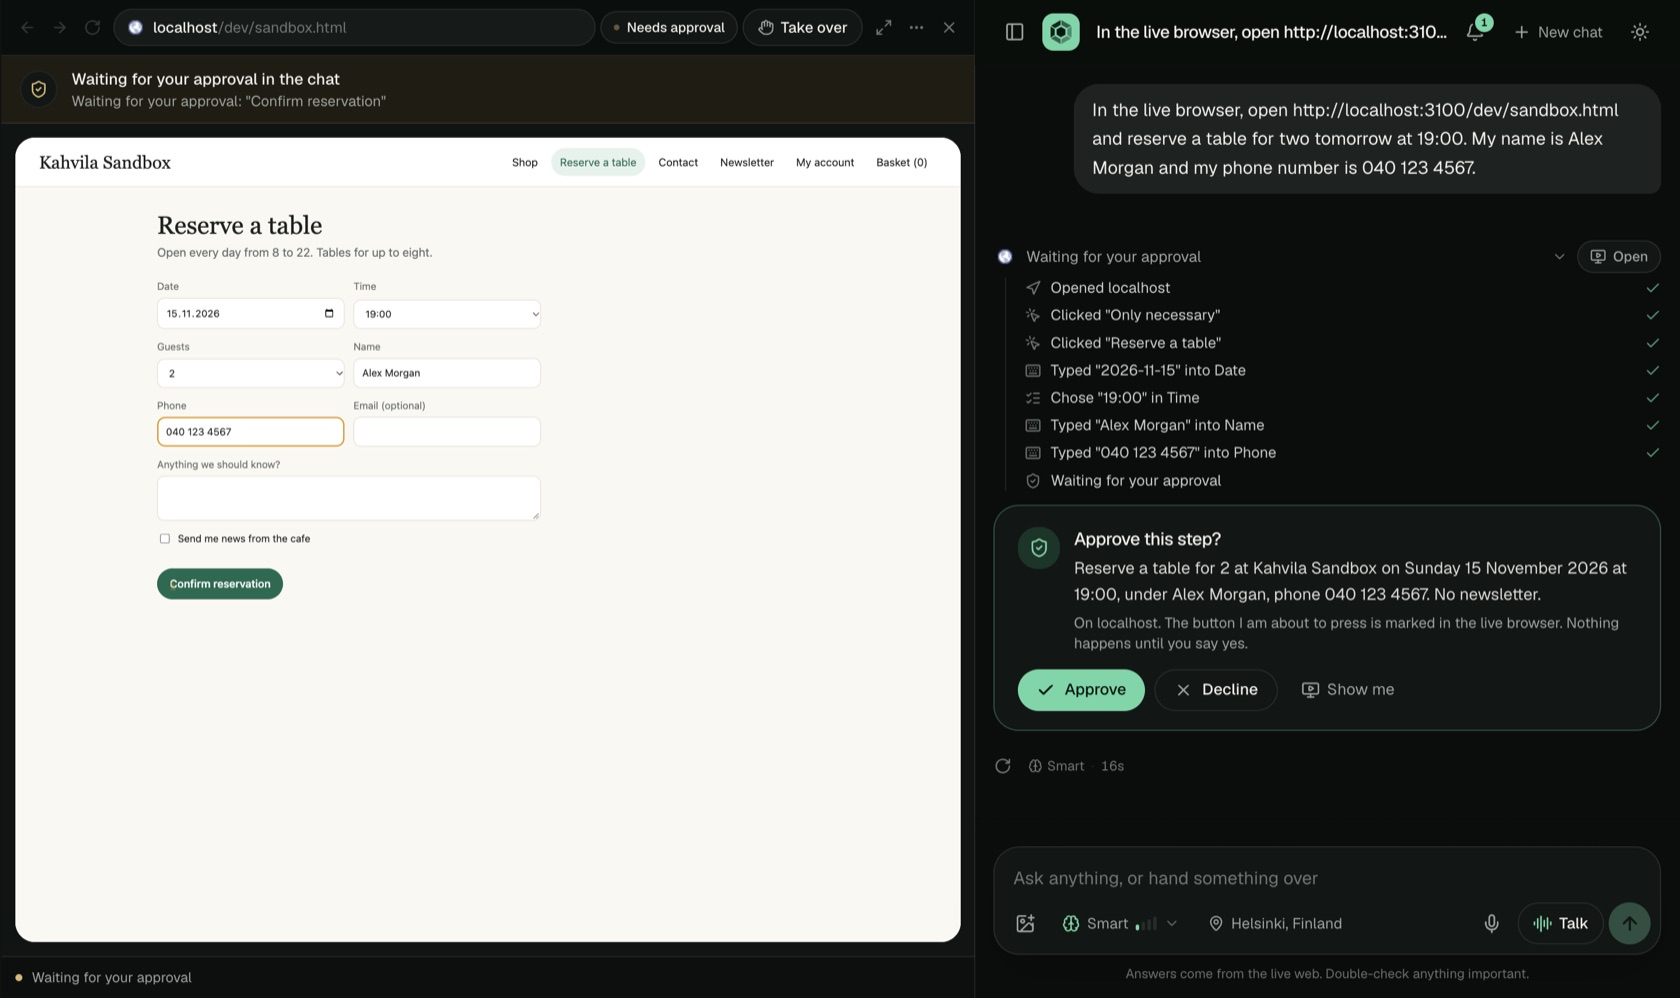
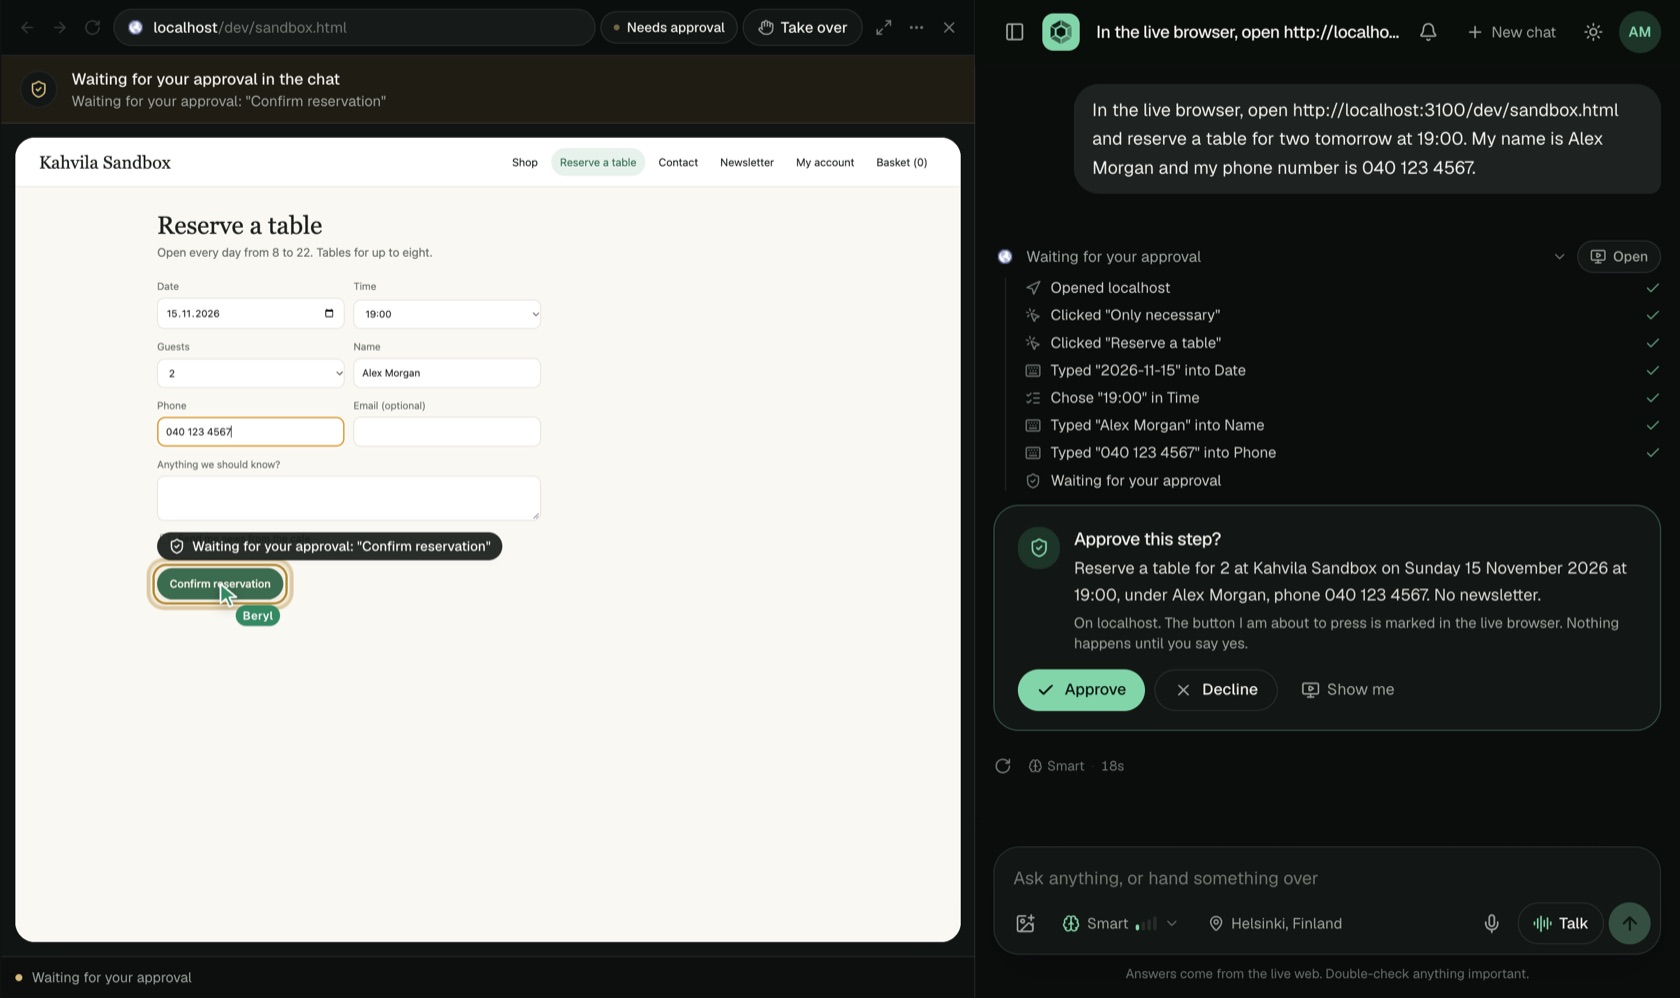
The engine works out the view's size itself when it has not been told
The approval ring could still be drawn off the button in runs where the
interface never sent the size of the browser view (it can miss the moment the
browser starts). With nothing set, the page's own size is the view's, so the
engine goes by that, lays the page out at desktop width and measures from
there. What a view had room for is forgotten when the browser closes.

The landing page's picture of the desktop app at work is retaken with the real
ring on the button, not retouched.

Changed region(s): [[0.0619, 0.5281, 0.3095, 0.6212], [0.8357, 0.0, 0.9905, 0.0621], [0.681, 0.5902, 0.8976, 0.6212]]

diff --git a/exa/web/src/lib/browser/session.ts b/exa/web/src/lib/browser/session.ts
@@ -378,10 +378,17 @@ export class BrowserSession {
    * measures a button in one layout and is shown over another points at empty space.
    */
   private async keepFit(page: Page) {
-    const wanted = this.layoutWidth();
-    if (wanted === undefined || page.isClosed()) return;
+    if (page.isClosed()) return;
     await this.measure(page);
-    if (Math.abs(this.state.viewport.width - wanted) > 2) await this.applyFit();
+    if (!this.room) {
+      // The interface has not said how much room the view has (it can miss the moment the browser
+      // starts). Nothing has been set yet, so the page's own size is the view's: go by that.
+      const { width, height } = this.state.viewport;
+      if (width < 100 || height < 100) return;
+      this.room = { width, height };
+    }
+    const wanted = this.layoutWidth();
+    if (wanted !== undefined && Math.abs(this.state.viewport.width - wanted) > 2) await this.applyFit();
   }
 
   private async applyFit() {
@@ -475,6 +482,8 @@ export class BrowserSession {
   }
 
   private onClosed() {
+    // The next view may be another size: what this one had room for is forgotten with it.
+    this.room = undefined;
     this.viewEndpoint = undefined;
     this.context = undefined;
     this.page = undefined;
